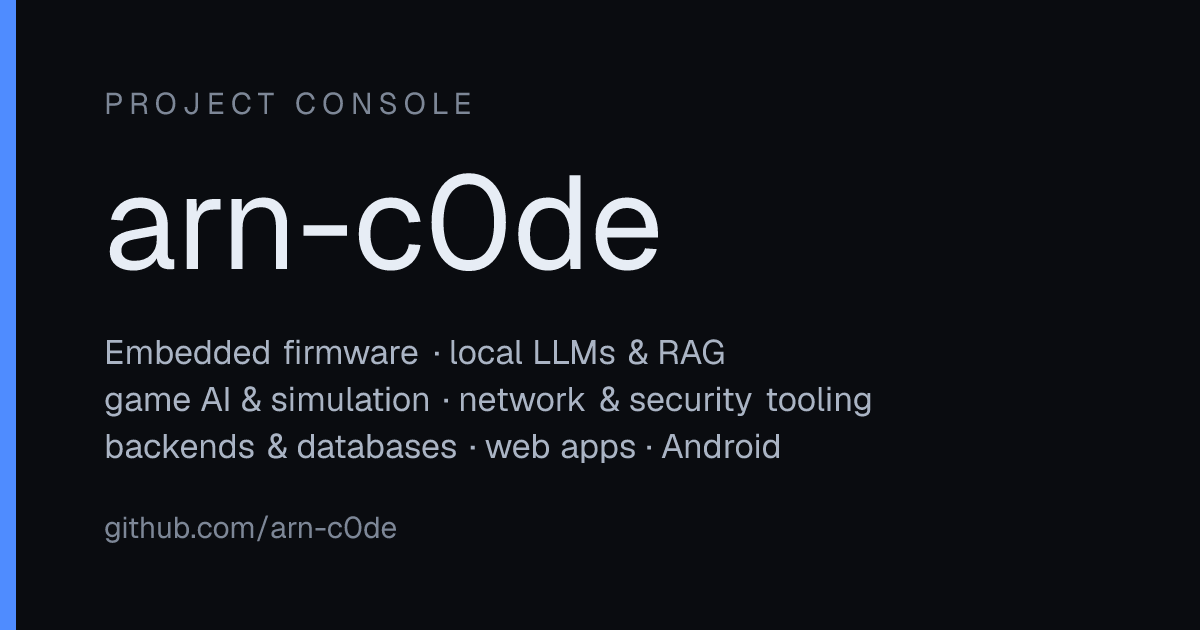
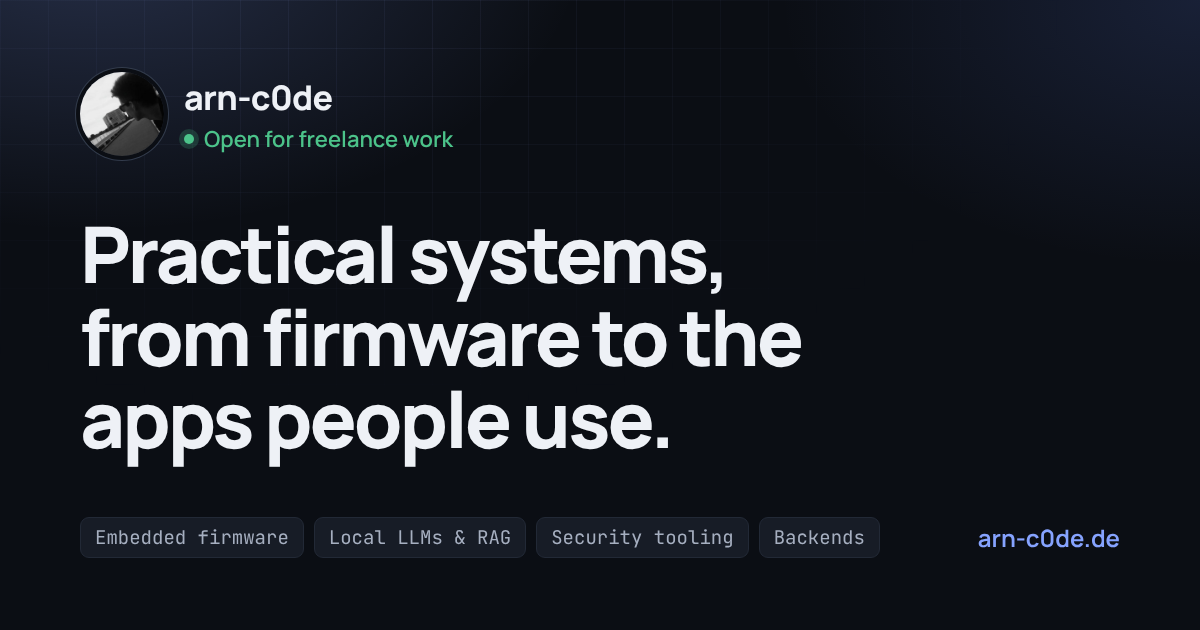
New social preview card, German email draft, compact stack on phones
- og.png is now a browser screenshot of an HTML card (playwright-core),
  so it uses Manrope, the avatar and the site's dark palette and leads
  with the hero statement
- The request email draft follows the interface language; translated
  labels keep their column alignment, and the i18n coverage test now
  scans lib/request.ts as well
- Stack tab on phones: languages in two compact columns, smaller ring

diff --git a/lib/request.ts b/lib/request.ts
@@ -85,8 +85,14 @@ export function areaTitles(ids: readonly ServiceAreaId[]): string[] {
   return SERVICE_AREAS.filter((a) => ids.includes(a.id)).map((a) => a.title)
 }
 
+/** Turns an English label into the visitor's language; English by default. */
+export type Translate = (text: string, vars?: Record<string, string | number>) => string
+const english: Translate = (text, vars) =>
+  vars ? text.replace(/\{(\w+)\}/g, (m, k: string) => (k in vars ? String(vars[k]) : m)) : text
+
 function pad(label: string): string {
-  return (label + ':').padEnd(11, ' ')
+  // Never closer than one space, even when a translated label is longer.
+  return (label + ':').padEnd(Math.max(11, label.length + 2), ' ')
 }
 
 /** A label plus continuation lines aligned under it. */
@@ -94,14 +100,14 @@ function block(label: string, values: string[]): string[] {
   return values.map((v, i) => (i === 0 ? pad(label) : ' '.repeat(11)) + v)
 }
 
-export function buildSubject(draft: RequestDraft): string {
-  const type = typeOf(draft.type).label
+export function buildSubject(draft: RequestDraft, t: Translate = english): string {
+  const type = t(typeOf(draft.type).label)
   const projects = draft.projects.map((p) => p.title)
-  const areas = areaTitles(draft.areas.filter((id) => id !== 'unsure'))
+  const areas = areaTitles(draft.areas.filter((id) => id !== 'unsure')).map((a) => t(a))
 
   const focus = projects.length ? projects : areas
   if (focus.length === 1) return `${type} — ${focus[0]}`
-  if (focus.length > 1) return `${type} — ${focus[0]} +${focus.length - 1} more`
+  if (focus.length > 1) return `${type} — ${focus[0]} ${t('+{n} more', { n: focus.length - 1 })}`
   return type
 }
 
@@ -109,35 +115,35 @@ export function buildSubject(draft: RequestDraft): string {
  * A plain-text email the visitor only has to send. Everything is assembled in
  * the browser; nothing is transmitted until their own mail client sends it.
  */
-export function buildBody(draft: RequestDraft): string {
-  const lines: string[] = ['Hello arn-c0de,', '']
+export function buildBody(draft: RequestDraft, t: Translate = english): string {
+  const lines: string[] = [t('Hello arn-c0de,'), '']
 
-  lines.push(draft.message.trim() || '(no message)', '')
+  lines.push(draft.message.trim() || t('(no message)'), '')
 
-  lines.push('— Request —')
-  lines.push(pad('Type') + typeOf(draft.type).label)
+  lines.push(t('— Request —'))
+  lines.push(pad(t('Type')) + t(typeOf(draft.type).label))
 
-  const areas = areaTitles(draft.areas)
-  if (areas.length) lines.push(...block('Areas', areas))
+  const areas = areaTitles(draft.areas).map((a) => t(a))
+  if (areas.length) lines.push(...block(t('Areas'), areas))
 
   if (draft.projects.length) {
-    lines.push(...block('Projects', draft.projects.map((p) => `${p.title} — ${p.html_url}`)))
+    lines.push(...block(t('Projects'), draft.projects.map((p) => `${p.title} — ${p.html_url}`)))
   }
 
-  lines.push(pad('Timeline') + draft.timeline)
+  lines.push(pad(t('Timeline')) + t(draft.timeline))
   lines.push('')
 
-  lines.push('— Contact —')
-  lines.push(pad('Name') + (draft.name.trim() || '(not given)'))
-  lines.push(pad('Email') + (draft.email.trim() || '(not given)'))
+  lines.push(t('— Contact —'))
+  lines.push(pad(t('Name')) + (draft.name.trim() || t('(not given)')))
+  lines.push(pad(t('Email')) + (draft.email.trim() || t('(not given)')))
 
   return lines.join('\n')
 }
 
-export function buildMailto(draft: RequestDraft): string {
+export function buildMailto(draft: RequestDraft, t: Translate = english): string {
   const params = new URLSearchParams({
-    subject: buildSubject(draft),
-    body: buildBody(draft),
+    subject: buildSubject(draft, t),
+    body: buildBody(draft, t),
   })
   // URLSearchParams encodes spaces as "+", which mail clients show literally.
   return `mailto:${INQUIRY_EMAIL}?${params.toString().replace(/\+/g, '%20')}`

diff --git a/test/request.test.ts b/test/request.test.ts
@@ -155,3 +155,21 @@ test('email check accepts the ordinary and rejects the obvious', () => {
     assert.ok(!looksLikeEmail(bad), bad)
   }
 })
+
+test('with a German translator the whole draft reads German and stays aligned', async () => {
+  const { DE } = await import('../lib/i18n-de.ts')
+  const de = (text: string, vars?: Record<string, string | number>) =>
+    (DE[text] ?? text).replace(/\{(\w+)\}/g, (m, k: string) => (vars && k in vars ? String(vars[k]) : m))
+
+  const body = buildBody(draft({ areas: ['llm'], name: '', timeline: 'Within a month' }), de)
+  assert.match(body, /^Hallo arn-c0de,/)
+  assert.match(body, /— Anfrage —/)
+  assert.match(body, /Art: {7}Etwas, das gebaut werden soll/)
+  assert.match(body, /Bereiche: {2}Lokale LLMs & RAG/)
+  // "Zeitrahmen:" is exactly the column width, so it still gets its space.
+  assert.match(body, /Zeitrahmen: Innerhalb eines Monats/)
+  assert.match(body, /Name: {6}\(nicht angegeben\)/)
+
+  const subject = buildSubject(draft({ type: 'question', projects: [project('A'), project('B')] }), de)
+  assert.equal(subject, 'Frage zu einem Projekt — A +1 weitere')
+})

diff --git a/components/RequestModal.tsx b/components/RequestModal.tsx
@@ -81,9 +81,11 @@ export default function RequestModal({
   )
 
   const draft: RequestDraft = { name, email, type, areas, timeline, message, projects: chosen }
-  const subject = buildSubject(draft)
-  const body = buildBody(draft)
-  const mailto = buildMailto(draft)
+  // The draft follows the interface language, so a German visitor writes a
+  // German mail.
+  const subject = buildSubject(draft, tr)
+  const body = buildBody(draft, tr)
+  const mailto = buildMailto(draft, tr)
 
   const missing: string[] = []
   if (!name.trim()) missing.push(tr('name'))
@@ -135,7 +137,9 @@ export default function RequestModal({
 
   async function copyDraft() {
     try {
-      await navigator.clipboard.writeText(`To: ${INQUIRY_EMAIL}\nSubject: ${subject}\n\n${body}`)
+      await navigator.clipboard.writeText(
+        `${tr('To')}: ${INQUIRY_EMAIL}\n${tr('Subject')}: ${subject}\n\n${body}`,
+      )
       setCopied(true)
       setTimeout(() => setCopied(false), 1800)
     } catch {

diff --git a/test/i18n.test.ts b/test/i18n.test.ts
@@ -7,8 +7,14 @@ import { DE, LONG } from '../lib/i18n-de.ts'
 function literalKeys() {
   const keys = new Map<string, string>()
   const dir = new URL('../components/', import.meta.url)
-  for (const file of readdirSync(dir).filter((f) => f.endsWith('.tsx'))) {
-    const source = readFileSync(new URL(file, dir), 'utf8')
+  const files = readdirSync(dir)
+    .filter((f) => f.endsWith('.tsx'))
+    .map((f) => new URL(f, dir))
+  // The email draft is assembled outside the components, in the same way.
+  files.push(new URL('../lib/request.ts', import.meta.url))
+  for (const url of files) {
+    const file = url.pathname.split('/').slice(-2).join('/')
+    const source = readFileSync(url, 'utf8')
     for (const match of source.matchAll(/\btr?\(\s*(['"])((?:(?!\1).)+)\1/g)) {
       keys.set(match[2], file)
     }

diff --git a/lib/i18n-de.ts b/lib/i18n-de.ts
@@ -417,4 +417,15 @@ export const DE: Record<string, string> = {
   'VR simulation world & multiplayer': 'VR-Simulationswelt & Mehrspieler',
   'QLink test version': 'QLink-Testversion',
   'Private project access & test builds': 'Zugang zu privaten Projekten & Test-Builds',
+
+  // Email draft (lib/request.ts)
+  'Hello arn-c0de,': 'Hallo arn-c0de,',
+  '(no message)': '(keine Nachricht)',
+  '— Request —': '— Anfrage —',
+  Type: 'Art',
+  Areas: 'Bereiche',
+  Timeline: 'Zeitrahmen',
+  '— Contact —': '— Kontakt —',
+  '(not given)': '(nicht angegeben)',
+  '+{n} more': '+{n} weitere',
 }

diff --git a/app/globals.css b/app/globals.css
@@ -5407,3 +5407,27 @@ p {
     grid-template-columns: 1fr;
   }
 }
+
+/* Phones: two compact columns of languages instead of one tall list, and a
+   ring that does not take the whole screen. */
+@media (max-width: 720px) {
+  .bars {
+    grid-template-columns: repeat(2, minmax(0, 1fr));
+    gap: 8px;
+  }
+
+  .bar__row {
+    padding: 9px 11px 10px;
+  }
+
+  .bar__meta {
+    flex-direction: column;
+    align-items: flex-start;
+    gap: 2px;
+    margin-bottom: 7px;
+  }
+
+  .ring {
+    max-width: 150px;
+  }
+}

diff --git a/README.md b/README.md
@@ -161,7 +161,9 @@ types, which is why the workflow is pinned to Node 24.
 
 `public/og.png` is the card a link to the site unfurls into, written by `node scripts/generate-og.mjs`
 and committed. Edit the script and rerun it to change the wording; `app/layout.tsx` points at the
-file by absolute URL. It is a plain file in `public/` rather than an `app/opengraph-image.tsx`
+file by absolute URL. The script screenshots a small HTML card with `playwright-core`, so the card
+uses the site's own fonts and dark palette; it needs a Chromium, either from
+`npx playwright install chromium` or named in `CHROMIUM_PATH`. It is a plain file in `public/` rather than an `app/opengraph-image.tsx`
 metadata route on purpose — that route exports as an *extensionless* file, which GitHub Pages
 serves as `application/octet-stream`, and every unfurler refuses it.
 
